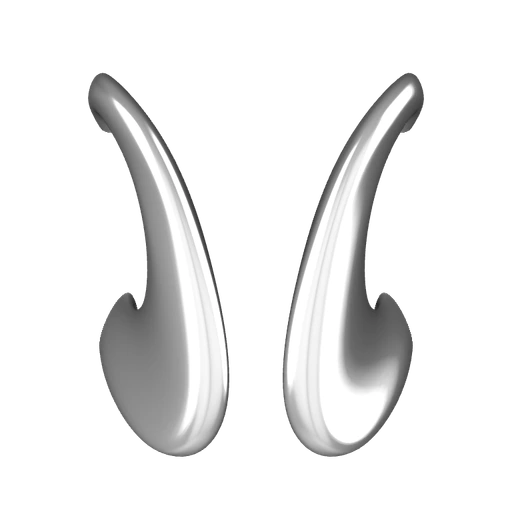
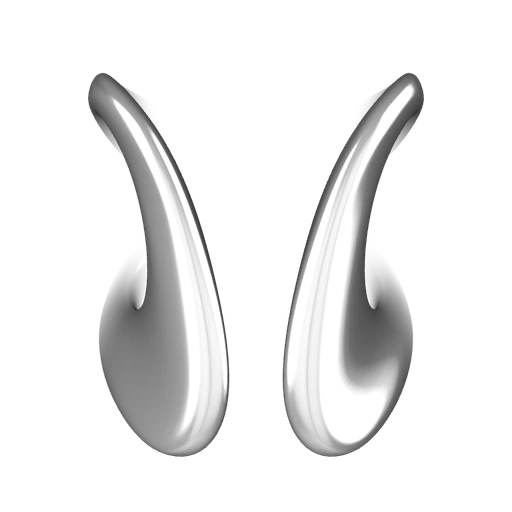
Hand rings: the far side fades out with depth instead of a hard cut
- On the x-ray hand, a ring's far half no longer stops at a clipping plane
  halfway down its box: it fades out with depth (alpha blended), so the
  band ends dissolve into the finger. The fade gives way as the ring slides
  off the hand, as the cut did.
- "hand-shader" gains fade-top and fade-bottom (fractions of the ring's
  height from its far side), validated, with the fallback following.
- Hand posters re-rendered; item-guide follows.

diff --git a/js/stack-scene.js b/js/stack-scene.js
@@ -26,6 +26,7 @@ var NO_CUT = 1e9;
 // The hand view's perspective, applied to a model lying on the hand
 // (placeOnHand()): a close camera straight above spreads nearer points outward.
 var HAND_VERTEX = [
+  "vHandFade = dot( uHandFadePlane.xyz, ( modelMatrix * vec4( transformed, 1.0 ) ).xyz ) + uHandFadePlane.w;",
   "if (uHand > 0.0) {",
   "  float handK = uHandDist / max(uHandDist - (mvPosition.z - uHandCenter.z), 1e-4);",
   "  mvPosition.xy = uHandCenter.xy + (mvPosition.xy - uHandCenter.xy) * mix(1.0, handK, uHand);",
@@ -37,8 +38,12 @@ var HAND_VERTEX = [
 // the surface turns away (a ray crosses more metal there), with the
 // environment's reflections as a faint grey sheen. Set by data/series.json's
 // "hand-shader" (handUniforms()). Appended after <colorspace_fragment>, so the
-// greys are sRGB values.
+// greys are sRGB values. The finger hides the ring's far side: it fades out
+// with depth over the band placeOnHand() sets (vHandFade, the distance above
+// the band's far end).
 var HAND_FRAGMENT = [
+  "gl_FragColor.a *= smoothstep( 0.0, 1.0, vHandFade / max( uHandFadeWidth, 1e-5 ) );",
+  "if ( gl_FragColor.a <= 0.0 ) discard;",
   "if (uHand > 0.0) {",
   "  float xrFacing = abs( dot( geometryNormal, geometryViewDir ) );",
   "  float xrGrey = mix( uHandTone.x, uHandTone.y, pow( xrFacing, uHandTone.z ) );",
@@ -51,7 +56,8 @@ var HAND_FRAGMENT = [
 ].join("\n");
 
 // The "hand-shader" settings as HAND_FRAGMENT's uniforms: uHandTone (edge,
-// face, falloff), uHandSheen (amount, from, to, roughness), greys 0-1.
+// face, falloff), uHandSheen (amount, from, to, roughness), greys 0-1. The
+// fade's band is read by placeOnHand().
 function handUniforms() {
   var s = toolkit.handShader();
   return {
@@ -74,8 +80,6 @@ export function createStackScene(options) {
     return null;
   }
   toolkit.configureRenderer(renderer, MAX_PIXEL_RATIO);
-  // For the finger a ring on the hand is cut by (placeOnHand()).
-  renderer.localClippingEnabled = true;
   // The hero's wipe (setWipe()): nothing above it is drawn. Always set, at
   // NO_CUT when idle, as adding or removing a plane recompiles every shader.
   var wipePlane = new T.Plane(new T.Vector3(0, -1, 0), NO_CUT);
@@ -110,6 +114,7 @@ export function createStackScene(options) {
   var tmpQ = new T.Quaternion();
   var yAxis = new T.Vector3(0, 1, 0);
   var tmpPlane = new T.Plane();
+  var tmpPlaneTop = new T.Plane();
 
   function rotZ(deg, out) {
     // Clockwise on screen is about -Z in a y-up world.
@@ -184,33 +189,36 @@ export function createStackScene(options) {
     entry.center = sphere.center.clone();
     entry.radius = sphere.radius || 1;
     entry.material = toolkit.metalMaterial(entry.product["default-metal"]);
-    // On the hand, the finger hides the lower half of its box: where that cut
-    // sits and the plane that makes it.
+    // On the hand, the finger hides the far side of its box (its depth there
+    // is the box's y): where that box sits.
     entry.cutMin = box.min.y;
     entry.cutHeight = box.max.y - box.min.y;
-    entry.clip = new T.Plane(yAxis.clone(), NO_CUT);
-    entry.material.clippingPlanes = [entry.clip];
     // The hand view's camera distance from the model's middle (a viewer's
     // framing at its default zoom, straight down), in model units, and the
-    // uniforms: uHand is the hand view's share (perspective, x-ray look).
+    // uniforms: uHand is the hand view's share (perspective, x-ray look, fade);
+    // the fade's plane (world, at the band's far end) and width (world units).
     var framing = toolkit.defaultFraming(entry.product);
     entry.handDist = entry.radius * framing.zoom / Math.sin(framing.fovDeg * Math.PI / 360);
     entry.hand = {
       uHandCenter: { value: new T.Vector3() },
       uHandDist: { value: 1 },
-      uHand: { value: 0 }
+      uHand: { value: 0 },
+      uHandFadePlane: { value: new T.Vector4(0, 1, 0, NO_CUT) },
+      uHandFadeWidth: { value: 1 }
     };
     entry.material.onBeforeCompile = function (shader) {
       shader.uniforms.uHandCenter = entry.hand.uHandCenter;
       shader.uniforms.uHandDist = entry.hand.uHandDist;
       shader.uniforms.uHand = entry.hand.uHand;
+      shader.uniforms.uHandFadePlane = entry.hand.uHandFadePlane;
+      shader.uniforms.uHandFadeWidth = entry.hand.uHandFadeWidth;
       shader.uniforms.uHandTone = handLook.uHandTone;
       shader.uniforms.uHandSheen = handLook.uHandSheen;
       shader.vertexShader = shader.vertexShader
-        .replace("#include <common>", "#include <common>\nuniform vec3 uHandCenter;\nuniform float uHandDist;\nuniform float uHand;")
+        .replace("#include <common>", "#include <common>\nuniform vec3 uHandCenter;\nuniform float uHandDist;\nuniform float uHand;\nuniform vec4 uHandFadePlane;\nvarying float vHandFade;")
         .replace("#include <project_vertex>", "#include <project_vertex>\n" + HAND_VERTEX);
       shader.fragmentShader = shader.fragmentShader
-        .replace("#include <common>", "#include <common>\nuniform float uHand;\nuniform vec3 uHandTone;\nuniform vec4 uHandSheen;")
+        .replace("#include <common>", "#include <common>\nuniform float uHand;\nuniform vec3 uHandTone;\nuniform vec4 uHandSheen;\nuniform float uHandFadeWidth;\nvarying float vHandFade;")
         .replace("#include <colorspace_fragment>", "#include <colorspace_fragment>\n" + HAND_FRAGMENT);
     };
     entry.material.customProgramCacheKey = function () { return "emjive-stack-hand"; };
@@ -312,13 +320,17 @@ export function createStackScene(options) {
 
   /* ---- placing a model ---- */
   function setOpacity(entry, opacity) {
-    if (!entry.material || Math.abs(opacity - entry.opacity) < 1e-3) return;
-    var wasTransparent = entry.material.transparent;
-    entry.opacity = opacity;
-    entry.material.opacity = opacity;
-    if (!entry.sprite) {
-      entry.material.transparent = opacity < 1;
-      if (wasTransparent !== entry.material.transparent) entry.material.needsUpdate = true;
+    if (!entry.material) return;
+    if (Math.abs(opacity - entry.opacity) >= 1e-3) {
+      entry.opacity = opacity;
+      entry.material.opacity = opacity;
+    }
+    if (entry.sprite) return;
+    // The hand's fade blends too.
+    var transparent = entry.opacity < 1 || entry.hand.uHand.value > 0;
+    if (transparent !== entry.material.transparent) {
+      entry.material.transparent = transparent;
+      entry.material.needsUpdate = true;
     }
   }
 
@@ -344,24 +356,28 @@ export function createStackScene(options) {
     setOpacity(entry, entry.model ? alpha : alpha * (1 - (pose.ring || 0)));
   }
 
-  // On the hand, a ring is drawn in the hand view: cut by the finger (below
-  // half its height), in a close perspective and the x-ray look. All three
-  // give way over u 0 to 0.5 as it swings off, as the hand poster's
+  // On the hand, a ring is drawn in the hand view: faded out with depth where
+  // the finger hides it ("hand-shader" fade-top to fade-bottom, fractions of
+  // its height from its far side), in a close perspective and the x-ray look.
+  // All three give way over u 0 to 0.5 as it swings off, as the hand poster's
   // crossfade does in the pictures.
   function placeOnHand(entry, pose) {
-    if (!entry.clip) return;
+    if (!entry.hand) return;
     var share = pose.fromRing && pose.u < 1 ? 1 - H.smoothstep(0, 0.5, pose.u) : 0;
     entry.hand.uHand.value = share;
     if (share <= 0) {
-      entry.clip.normal.copy(yAxis);
-      entry.clip.constant = NO_CUT;
+      entry.hand.uHandFadePlane.value.set(0, 1, 0, NO_CUT);
       return;
     }
-    tmpPlane.normal.copy(yAxis);
-    tmpPlane.constant = -(entry.cutMin + entry.cutHeight * 0.5 * share);
+    var look = toolkit.handShader();
+    tmpPlane.set(yAxis, -(entry.cutMin + entry.cutHeight * look["fade-bottom"] * share));
+    tmpPlaneTop.set(yAxis, -(entry.cutMin + entry.cutHeight * look["fade-top"] * share));
     entry.group.updateMatrixWorld(true);
     // The box was measured in the holder's frame.
-    entry.clip.copy(tmpPlane).applyMatrix4(entry.holder.matrixWorld);
+    tmpPlane.applyMatrix4(entry.holder.matrixWorld);
+    tmpPlaneTop.applyMatrix4(entry.holder.matrixWorld);
+    entry.hand.uHandFadePlane.value.set(tmpPlane.normal.x, tmpPlane.normal.y, tmpPlane.normal.z, tmpPlane.constant);
+    entry.hand.uHandFadeWidth.value = tmpPlane.constant - tmpPlaneTop.constant;
     // The model's middle in view space, and the camera distance at its drawn size.
     camera.updateMatrixWorld();
     entry.hand.uHandCenter.value.setFromMatrixPosition(entry.group.matrixWorld).applyMatrix4(camera.matrixWorldInverse);

diff --git a/scripts/validate-data.js b/scripts/validate-data.js
@@ -127,10 +127,12 @@ const indexSchema = {
     // greys 0-255 (edge where the surface turns away, face where it faces the
     // camera, falloff the curve between), plus sheen grey added where the
     // environment's reflection (at sheen-roughness) is bright, ramping in over
-    // sheen-from to sheen-to of its compressed brightness (0-1).
+    // sheen-from to sheen-to of its compressed brightness (0-1); the ring fades
+    // out with depth from fade-top down to fade-bottom (fractions of its height
+    // from its far side), where the finger hides it.
     "hand-shader": {
       type: "object",
-      required: ["edge", "face", "falloff", "sheen", "sheen-from", "sheen-to", "sheen-roughness"],
+      required: ["edge", "face", "falloff", "sheen", "sheen-from", "sheen-to", "sheen-roughness", "fade-top", "fade-bottom"],
       additionalProperties: false,
       properties: {
         edge: { type: "number", minimum: 0, maximum: 255 },
@@ -139,7 +141,9 @@ const indexSchema = {
         sheen: { type: "number", minimum: 0, maximum: 255 },
         "sheen-from": { type: "number", minimum: 0, maximum: 1 },
         "sheen-to": { type: "number", minimum: 0, maximum: 1 },
-        "sheen-roughness": { type: "number", minimum: 0, maximum: 1 }
+        "sheen-roughness": { type: "number", minimum: 0, maximum: 1 },
+        "fade-top": { type: "number", minimum: 0, maximum: 1 },
+        "fade-bottom": { type: "number", minimum: 0, maximum: 1 }
       }
     },
     "printing-technologies": {

diff --git a/js/three-viewer.js b/js/three-viewer.js
@@ -133,7 +133,7 @@ export { toolkit };
   // The rings' x-ray look on the hero's hand (js/stack-scene.js): data/series.json's
   // "hand-shader", read like "metal-shaders" (the tools use setHandShader()).
   var handShader = null;
-  var FALLBACK_HAND_SHADER = { edge: 10, face: 41, falloff: 0.7, sheen: 56, "sheen-from": 0.4, "sheen-to": 0.9, "sheen-roughness": 0.3 };
+  var FALLBACK_HAND_SHADER = { edge: 10, face: 41, falloff: 0.7, sheen: 56, "sheen-from": 0.4, "sheen-to": 0.9, "sheen-roughness": 0.3, "fade-top": 0.65, "fade-bottom": 0.3 };
 
   function handShaderSettings() {
     var series = window.EmjiveSeries;

diff --git a/dev-guidelines/item-guide.md b/dev-guidelines/item-guide.md
@@ -36,7 +36,7 @@ All JSON, fetched by the pages themselves, so everything in them is public.
 | Series, products, prices, descriptions, categories, metals, HDRIs, `featured` | by hand or with `json-tool` |
 | A product's `designs` block | by hand only (`json-tool` carries it through untouched) |
 | Default camera angle, a series' HDRI, the swatch scene, the metal shaders (`metal-shaders`) | `scene-tool` |
-| The rings' x-ray look on the hero's hand (`hand-shader`) | by hand |
+| The rings' x-ray look on the hero's hand, and their fade where the finger hides them (`hand-shader`) | by hand |
 | `geometry` | `measure-models` |
 | Icons, fallback images, wheel posters, hand posters (paths and files) | `auto-render` |
 
@@ -84,7 +84,7 @@ From a Blender export to a shippable item, in the order that works. None of thes
    - the **fallback image** is the viewer's first frame, pixel for pixel, so the swap from poster to live model doesn't jump;
    - the **icon** is the same capture, cropped tight;
    - the **wheel poster** is the model as the wheel draws it;
-   - the **hand poster** is the ring as the wheel draws it on the hero's hand: straight down, cut where a finger would hide it, in the x-ray look and no metal. It stands in until the 3D models take the hand over;
+   - the **hand poster** is the ring as the wheel draws it on the hero's hand: straight down, fading out with depth where a finger would hide it, in the x-ray look and no metal. It stands in until the 3D models take the hand over;
    - the **metal swatches** are one sphere, re-tinted for each metal.
 
    Its flags narrow a run (`--product=`, `--series=`, `--swatches-only`, `--wheel-posters-only`, `--hand-posters-only`, `--image-variants`).
